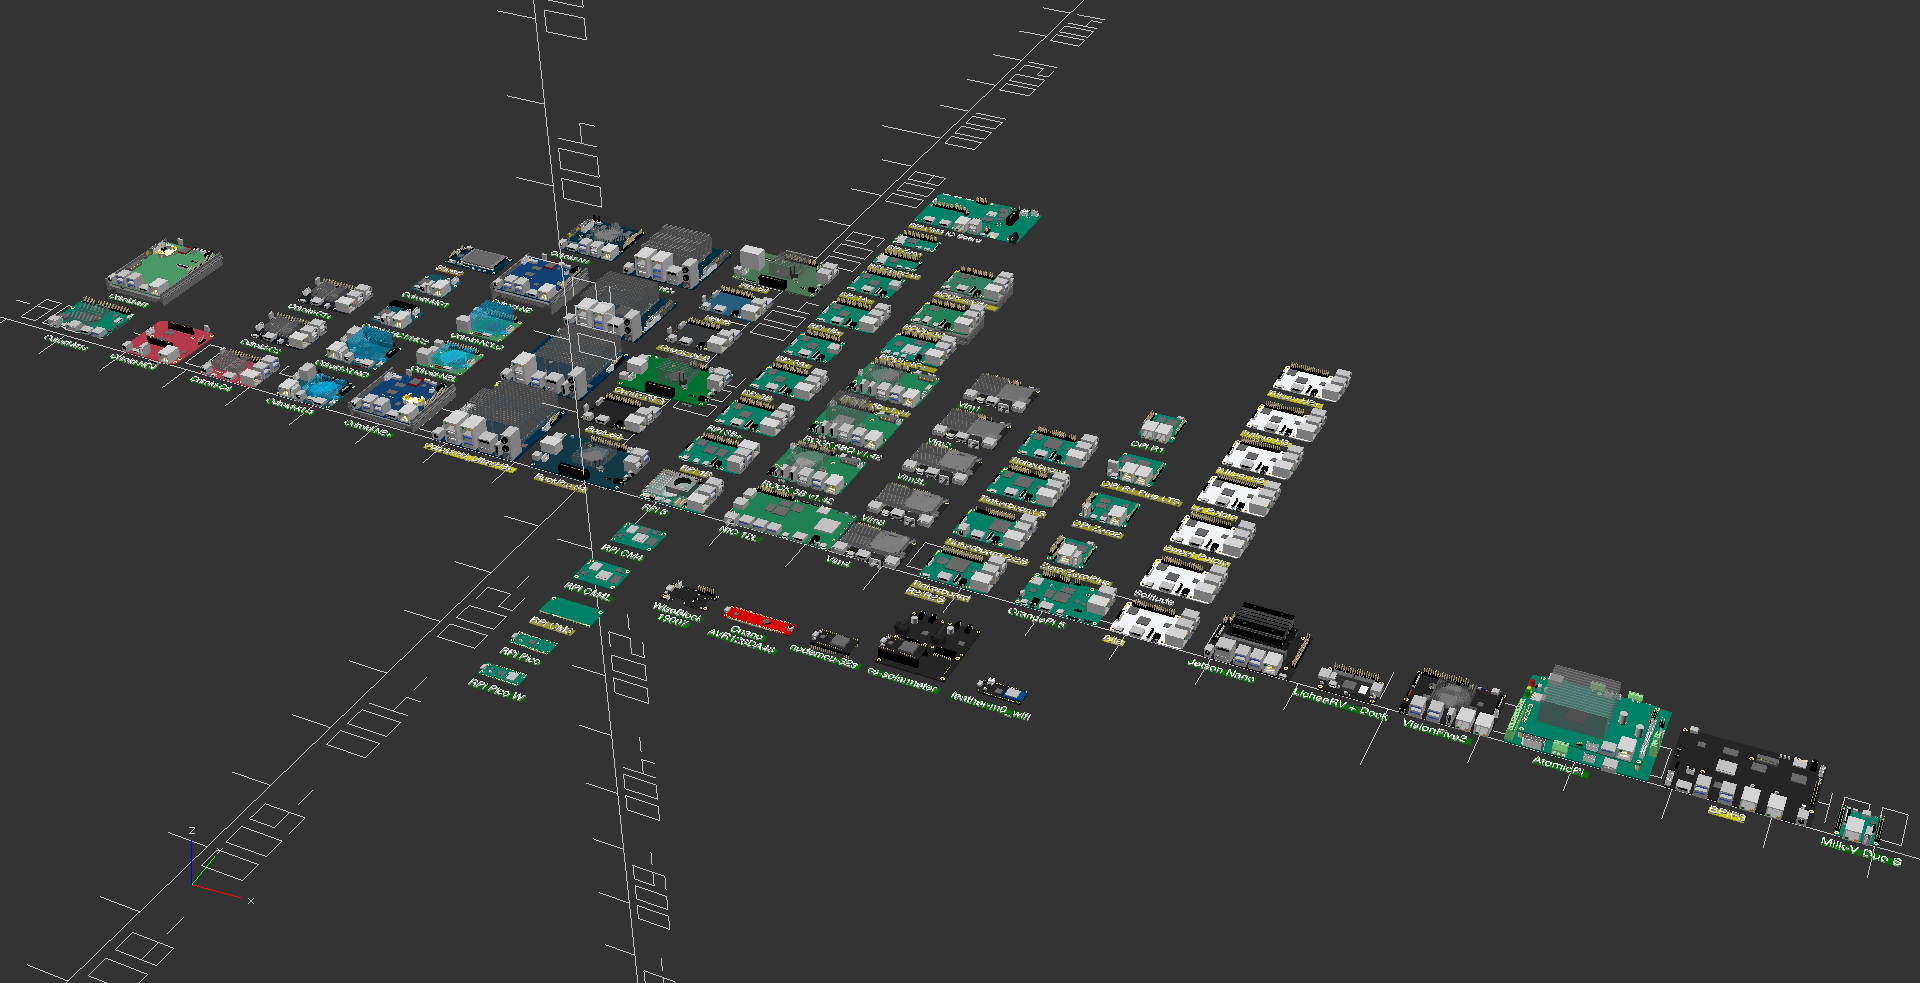
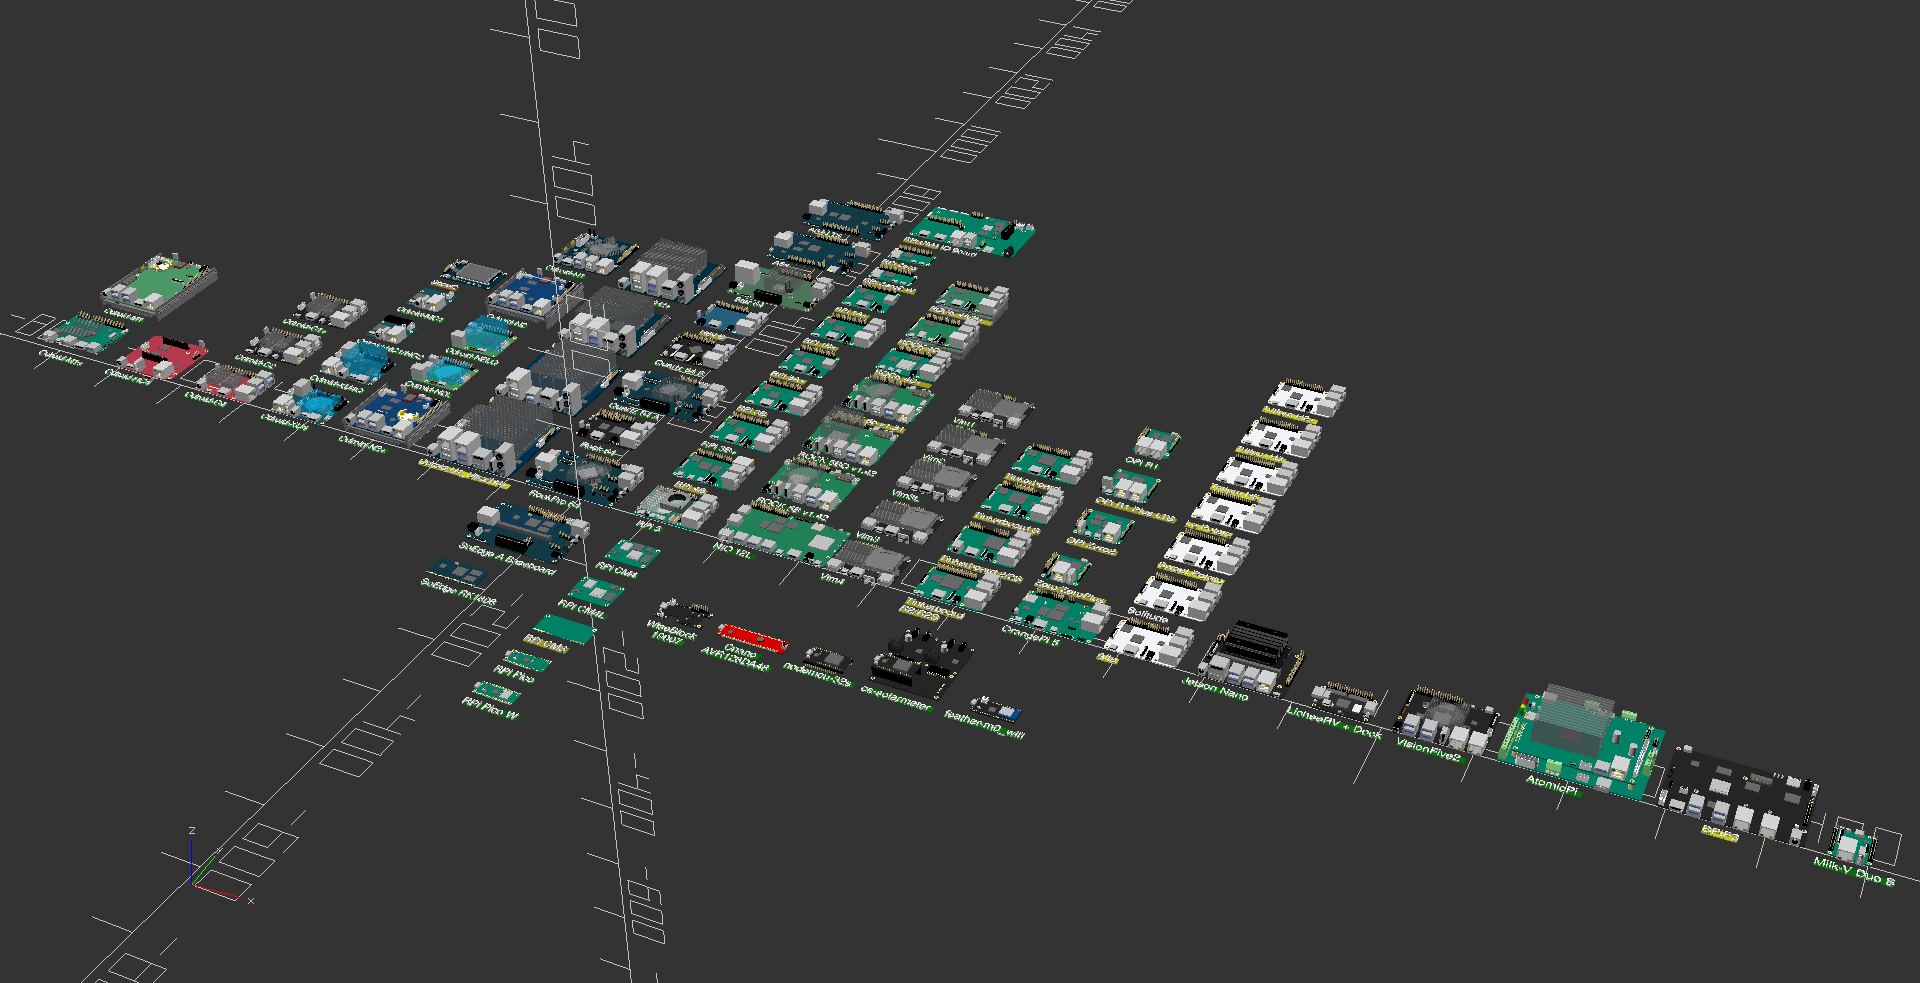
added soedge_rk1808 and soedge_a-baseboard, updated viewer and docs

diff --git a/README.md b/README.md
@@ -13,12 +13,12 @@ SBC Model Framework provides 3D models of SBC, MCU, Compute Modules and Carrier 
 
 ```
                   SBC:  77
-       Carrier Boards:   3
-      Compute Modules:   8
+       Carrier Boards:   4
+      Compute Modules:   9
     Micro Controllers:   7
 Standard Motherboards:  14
            Custom PCB:   1
-        Total Devices: 110
+        Total Devices: 112
 ```
 
 ## Using SBC Model Framework
@@ -37,7 +37,7 @@ USAGE: sbc(model, enableheatsink = "default", fansize = 0, enablegpio =  "defaul
                  "m1","m1s","h2","h2+","h3","h3+","h4","h4+","h4_ultra","show2",
                  "rpipicow","rpipicow","rpizero","rpizero2w","rpi1a+","rpi1b+","rpi3a+","rpi3b","rpi3b+","rpi4b","rpi5",
                  "rpicm1","rpicm3","rpicm3l","rpicm3+","rpicm4","rpicm4l","rpicm1","rpicm4+ioboard",
-                 "a64","a64lts","rock64","rockpro64","quartz64a","quartz64b","h64b","star64",
+                 "a64","a64lts","rock64","rockpro64","quartz64a","quartz64b","h64b","star64","soedge_rk1808","soedge_a-baseboard"
                  "rock4a","rock4a+","rock4b","rock4b+","rock4c","rock4c+","rock5b-v1.3","rock5b",
                  "vim1","vim2","vim3l","vim3","vim4",
                  "tinkerboard","tinkerboard-s","tinkerboard-2","tinkerboard-2s","tinkerboard-r2","tinkerboard-r2s",
